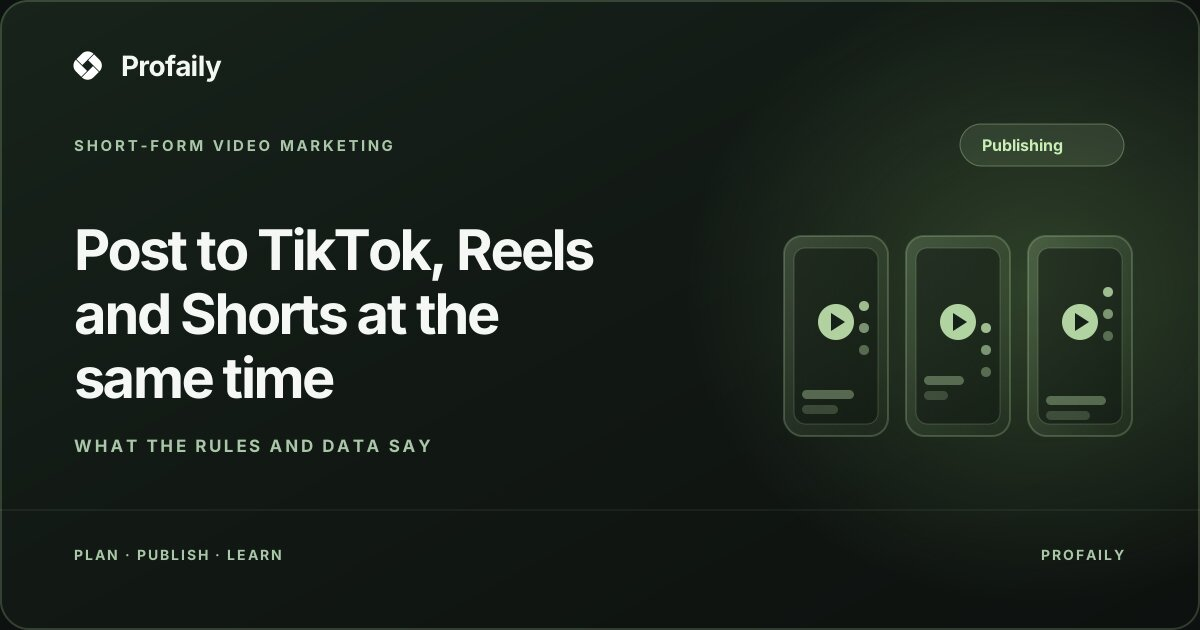
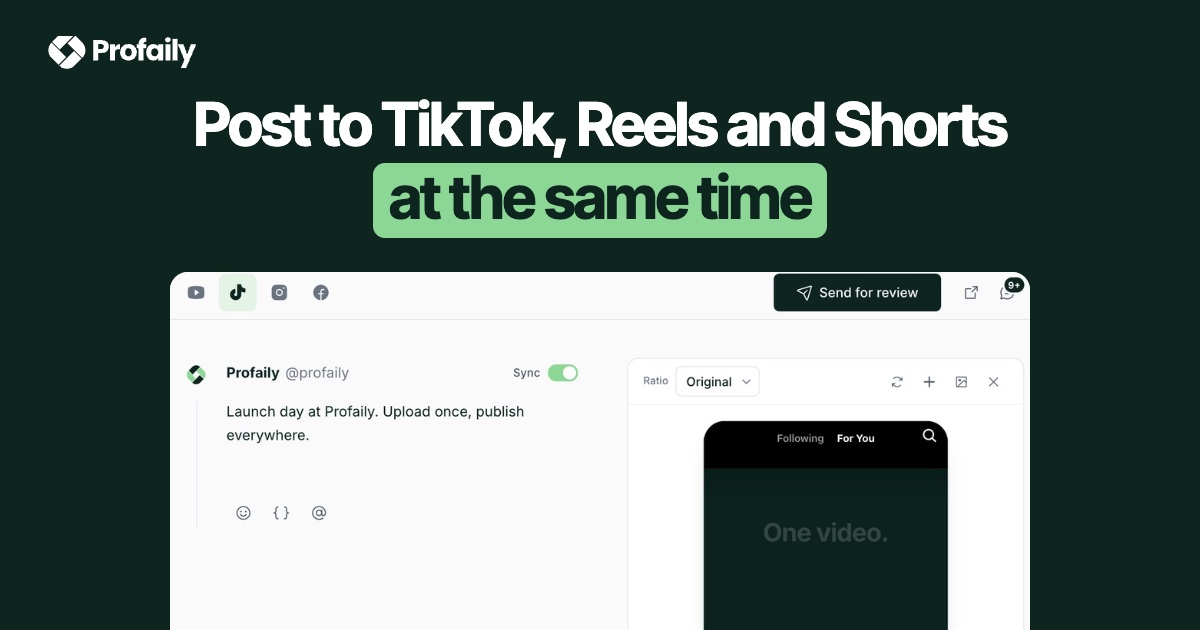
feat(blog): branded cover generator; new cover for the TikTok/Reels/Shorts post
Covers are now rendered from scripts/cover/template.html by `yarn cover`: forest
field, Profaily lockup, title with one phrase on a mint block, and a real app
capture rising from the bottom. Also ignore .taste-skill/ screenshots.

diff --git a/scripts/cover.ts b/scripts/cover.ts
@@ -1,0 +1,47 @@
+/**
+ * Renders a blog cover: public/assets/blog-featured-<slug>.jpg, 1200x630.
+ *
+ *   yarn cover <slug> "<title with one [highlighted phrase]>" [capture] [left,top,width]
+ *
+ *   capture        a file in public/assets/app (default ch-tiktok-composer.jpg)
+ *   left,top,width how the capture sits in the 860px-wide window (default -352,-6,1229: the composer's
+ *                  channel tabs and phone preview)
+ *
+ * Example: yarn cover post-to-tiktok-reels-shorts-at-the-same-time "Post to TikTok, Reels and Shorts [at the same time]"
+ *
+ * Needs Google Chrome (CHROME=/path/to/chrome to override) and network for the Inter Tight font. macOS `sips`
+ * converts the screenshot to JPEG.
+ */
+import { execFileSync } from "node:child_process";
+import fs from "node:fs";
+import os from "node:os";
+import path from "node:path";
+
+const [slug, title, shot = "ch-tiktok-composer.jpg", place = "-352,-6,1229"] = process.argv.slice(2);
+if (!slug || !title || !/\[[^\]]+\]/.test(title)) {
+  console.error('Usage: yarn cover <slug> "<title with one [highlighted phrase]>" [capture] [left,top,width]');
+  process.exit(1);
+}
+const root = process.cwd();
+const capture = path.join(root, "public/assets/app", shot);
+if (!fs.existsSync(capture)) throw new Error(`No capture at public/assets/app/${shot}`);
+const [left, top, width] = place.split(",").map(Number);
+
+const esc = (s: string) => s.replace(/&/g, "&amp;").replace(/</g, "&lt;");
+const html = fs
+  .readFileSync(path.join(root, "scripts/cover/template.html"), "utf8")
+  .replace("{{TITLE}}", esc(title).replace(/\s*\[([^\]]+)\]\s*/, '<br><span class="hl">$1</span>'))
+  .replace("{{SHOT}}", `file://${capture}`)
+  .replace("{{SHOT_STYLE}}", `left:${left}px;top:${top}px;width:${width}px`);
+
+const tmp = fs.mkdtempSync(path.join(os.tmpdir(), "cover-"));
+fs.copyFileSync(path.join(root, "scripts/cover/lockup-white.svg"), path.join(tmp, "lockup-white.svg"));
+fs.writeFileSync(path.join(tmp, "cover.html"), html);
+const png = path.join(tmp, "cover.png");
+const chrome = process.env.CHROME ?? "/Applications/Google Chrome.app/Contents/MacOS/Google Chrome";
+execFileSync(chrome, ["--headless=new", "--hide-scrollbars", "--allow-file-access-from-files", "--virtual-time-budget=5000", "--window-size=1200,630", `--screenshot=${png}`, `file://${tmp}/cover.html`], { stdio: "ignore" });
+
+const out = path.join(root, `public/assets/blog-featured-${slug}.jpg`);
+execFileSync("sips", ["-s", "format", "jpeg", "-s", "formatOptions", "86", png, "--out", out], { stdio: "ignore" });
+fs.rmSync(tmp, { recursive: true, force: true });
+console.log(`Wrote ${path.relative(root, out)}`);

diff --git a/scripts/cover/template.html b/scripts/cover/template.html
@@ -1,0 +1,27 @@
+<!doctype html>
+<html>
+<head>
+<meta charset="utf-8">
+<link href="https://fonts.googleapis.com/css2?family=Inter+Tight:wght@600;700&display=block" rel="stylesheet">
+<style>
+  /* Blog cover, 1200x630: forest field, Profaily lockup top-left, a two-line title with one phrase on a mint
+     block, and a real app capture rising from the bottom edge. Filled in by scripts/cover.ts. */
+  :root { --forest: #0d241f; --mint: #8dd796; --paper: #fafaf9; }
+  * { margin: 0; box-sizing: border-box; }
+  body { width: 1200px; height: 630px; overflow: hidden; }
+  .c { position: relative; width: 1200px; height: 630px; overflow: hidden; background: var(--forest); color: #fff; font-family: "Inter Tight", sans-serif; }
+  .logo { position: absolute; top: 36px; left: 44px; height: 34px; width: auto; }
+  h1 { position: absolute; top: 92px; left: 60px; right: 60px; text-align: center; font-weight: 650; font-size: 60px; letter-spacing: -0.035em; line-height: 1.08; }
+  .hl { display: inline-block; margin-top: 6px; padding: 2px 16px 8px; border-radius: 12px; background: var(--mint); color: var(--forest); }
+  .win { position: absolute; left: 170px; right: 170px; top: 272px; bottom: 0; overflow: hidden; border-radius: 18px 18px 0 0; background: var(--paper); }
+  .win img { position: absolute; display: block; }
+</style>
+</head>
+<body>
+  <div class="c">
+    <img class="logo" src="lockup-white.svg" alt="">
+    <h1>{{TITLE}}</h1>
+    <div class="win"><img src="{{SHOT}}" alt="" style="{{SHOT_STYLE}}"></div>
+  </div>
+</body>
+</html>

diff --git a/README.md b/README.md
@@ -39,8 +39,9 @@ Blog posts are markdown files in `posts/<slug>.md` (the loader code is in `conte
 `.md` file in that folder is a post and the file name is its URL (`/blog/<slug>`). Nothing is registered.
 Files in `posts/_parked/` are ignored.
 
-1. Create `posts/<slug>.md` and add the cover `public/assets/blog-featured-<slug>.jpg` (1200x630,
-   plus a `.svg`).
+1. Create `posts/<slug>.md`, then make its cover: `yarn cover <slug> "Title with one [highlighted phrase]"`.
+   That writes `public/assets/blog-featured-<slug>.jpg` (1200x630, Profaily forest field, the phrase on a mint
+   block, a real app capture from `public/assets/app`). Options are at the top of `scripts/cover.ts`.
 2. Frontmatter you write: `title`, `description`, `category`, `datePublished` (`2026-09-29`). Optional:
    `cta` (`href` + `label`), `sources` (`href` + `label` list), `related` (slugs of other posts),
    `featured: true` (pin to the top of the index), `draft: true` (hidden in the production build, shown in
